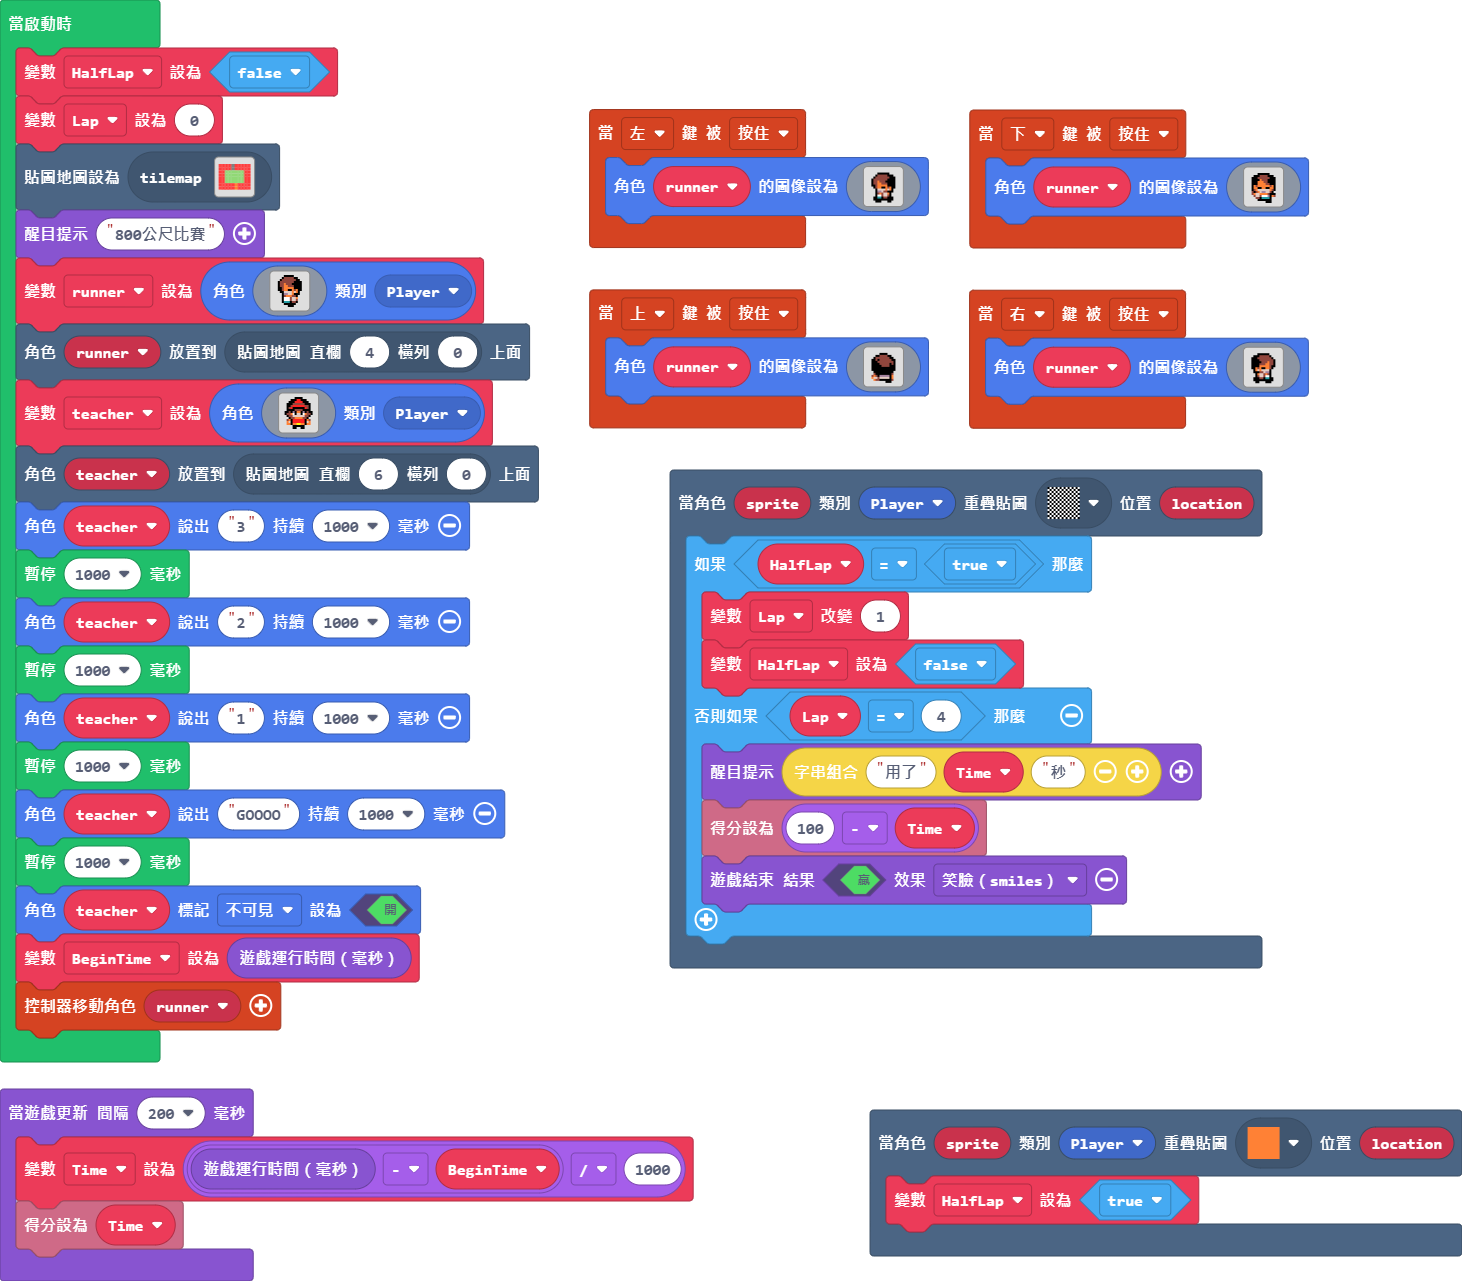
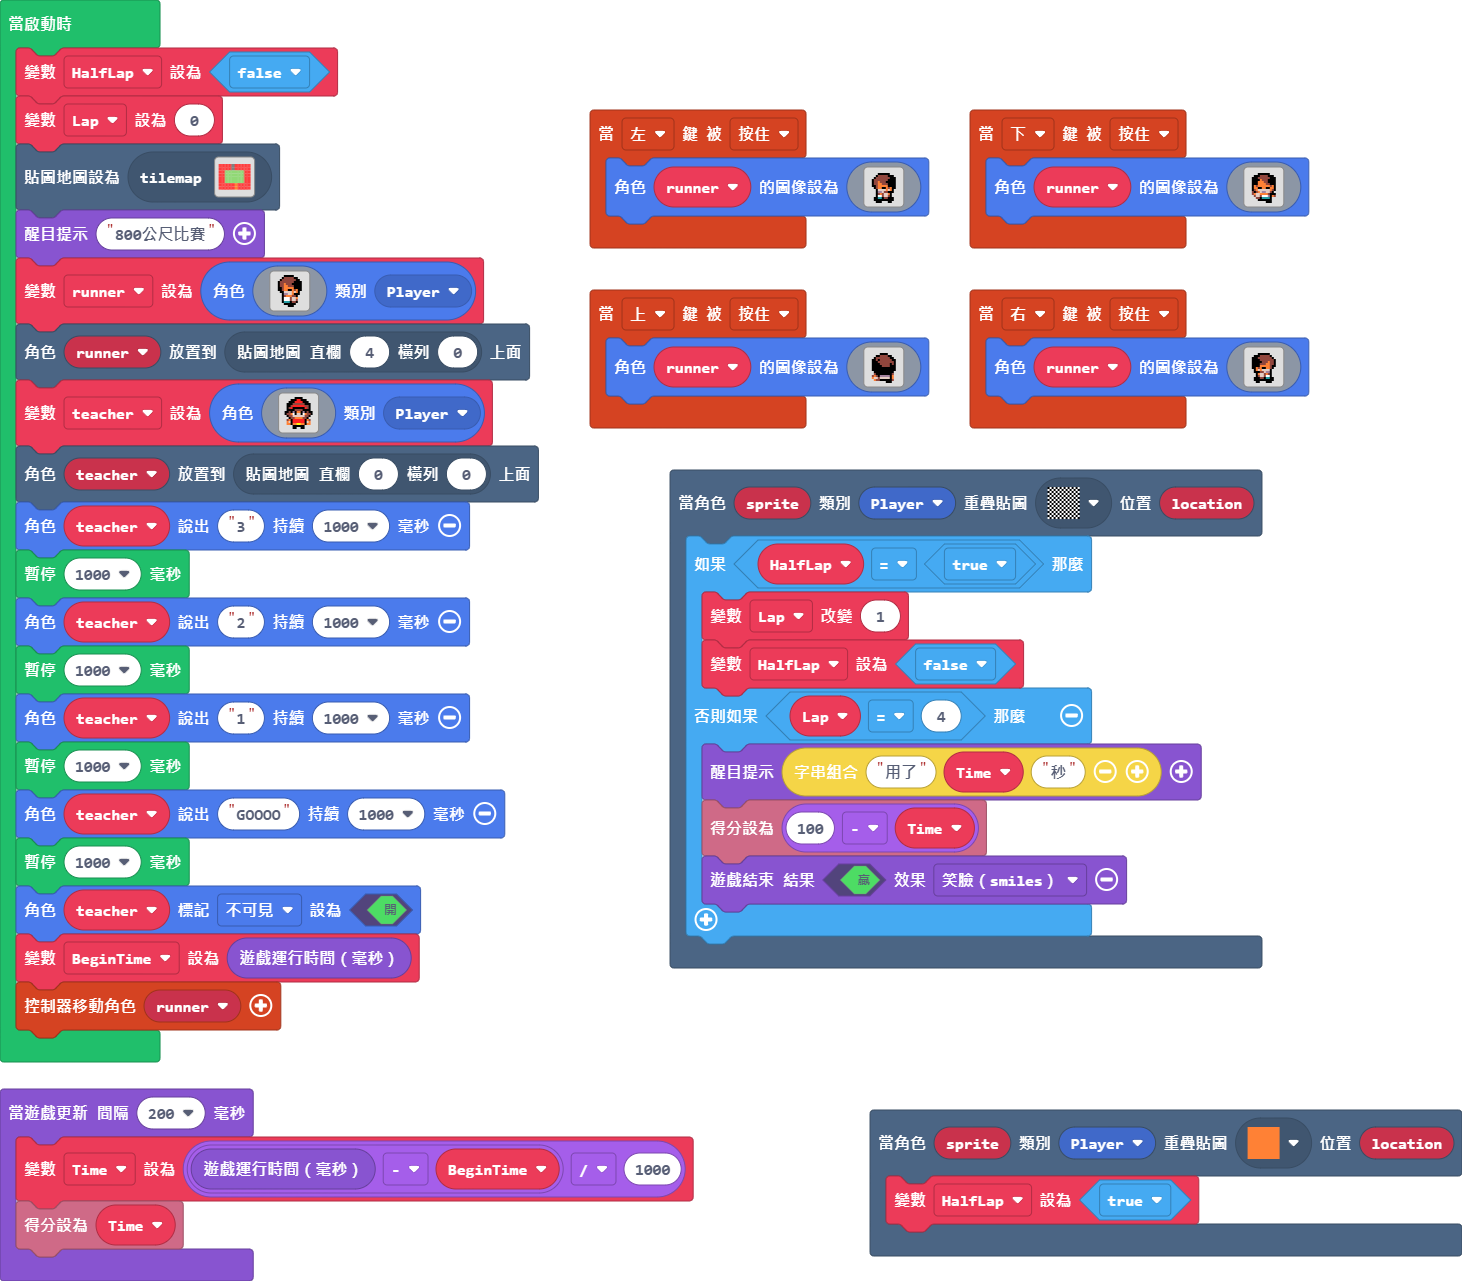
更新 main.blocks, main.ts

diff --git a/main.ts b/main.ts
@@ -141,7 +141,7 @@ let teacher = sprites.create(img`
     . . . . . f f f f f f . . . . . 
     . . . . . f f . . f f . . . . . 
     `, SpriteKind.Player)
-tiles.placeOnTile(teacher, tiles.getTileLocation(6, 0))
+tiles.placeOnTile(teacher, tiles.getTileLocation(0, 0))
 teacher.say("3", 1000)
 pause(1000)
 teacher.say("2", 1000)
